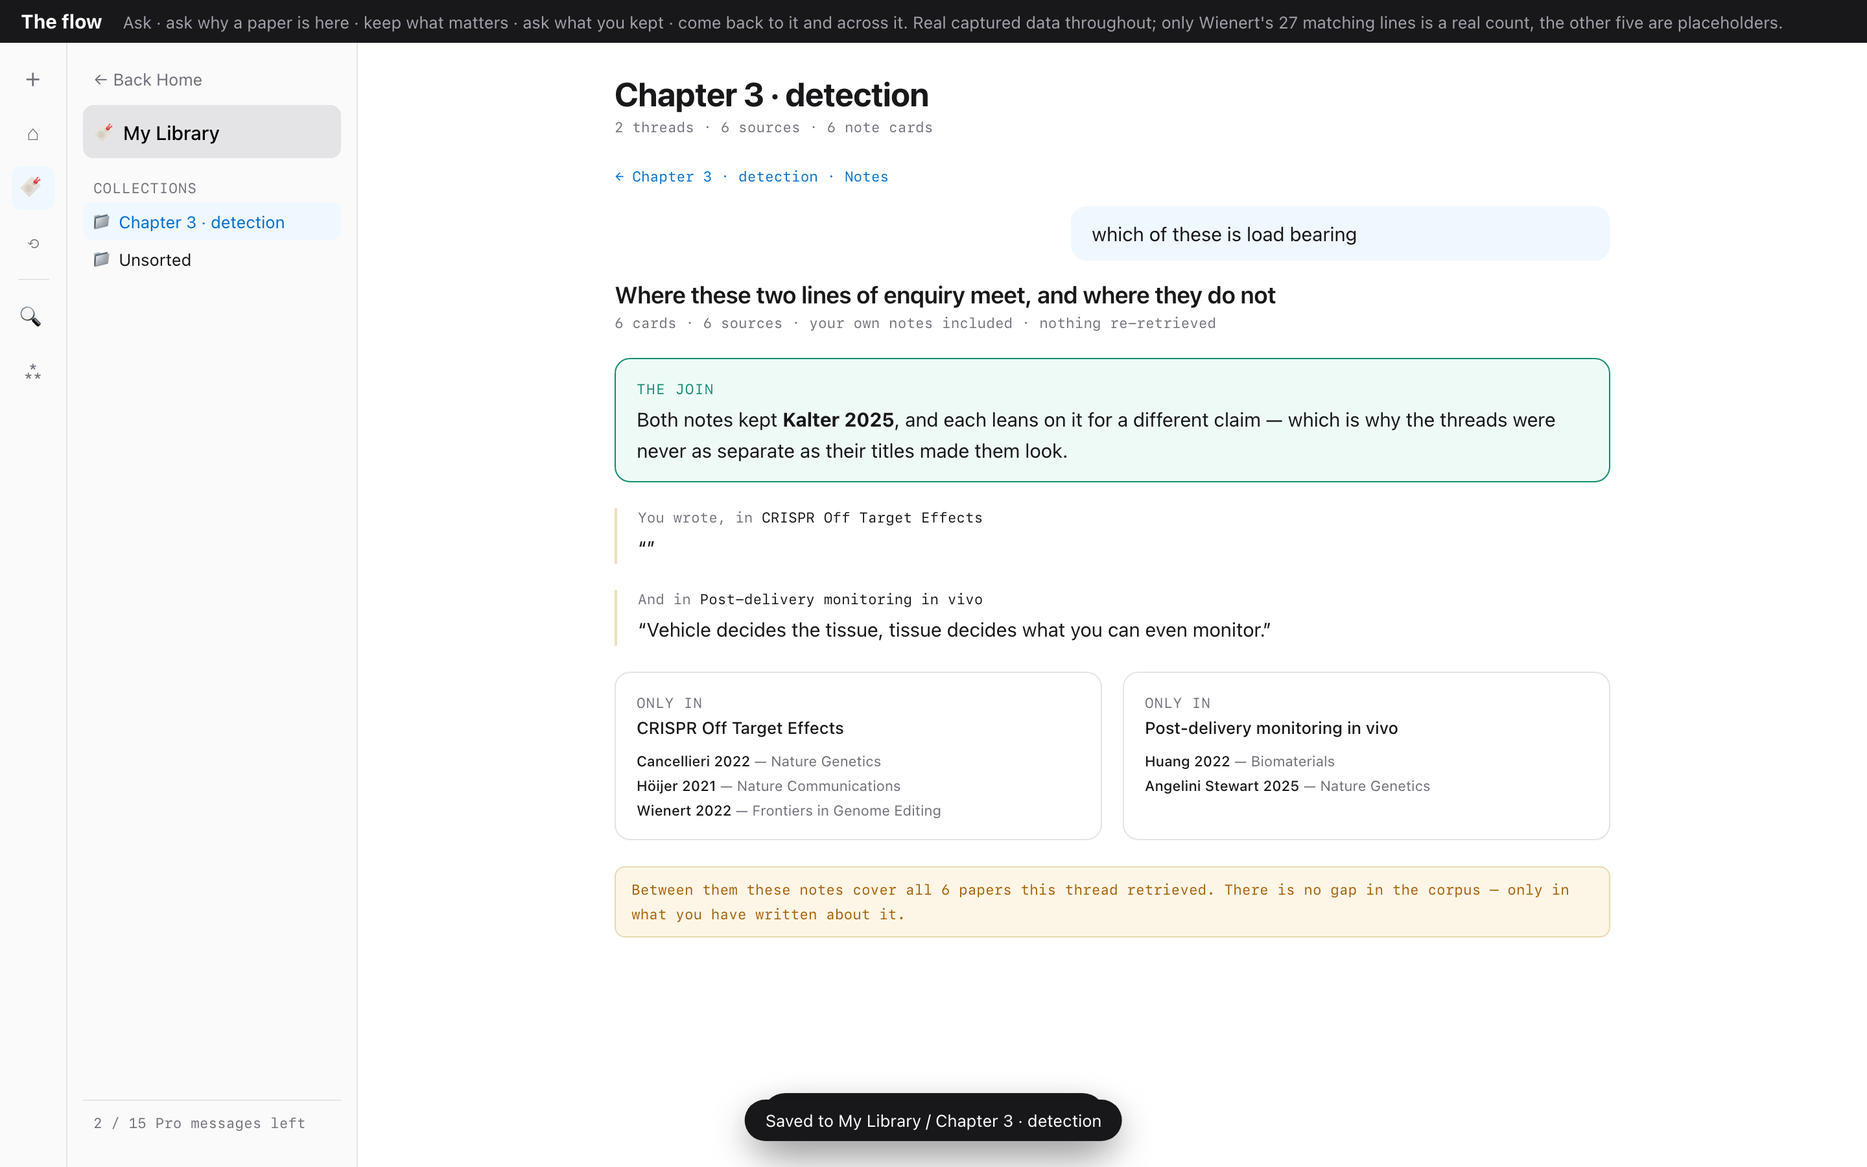
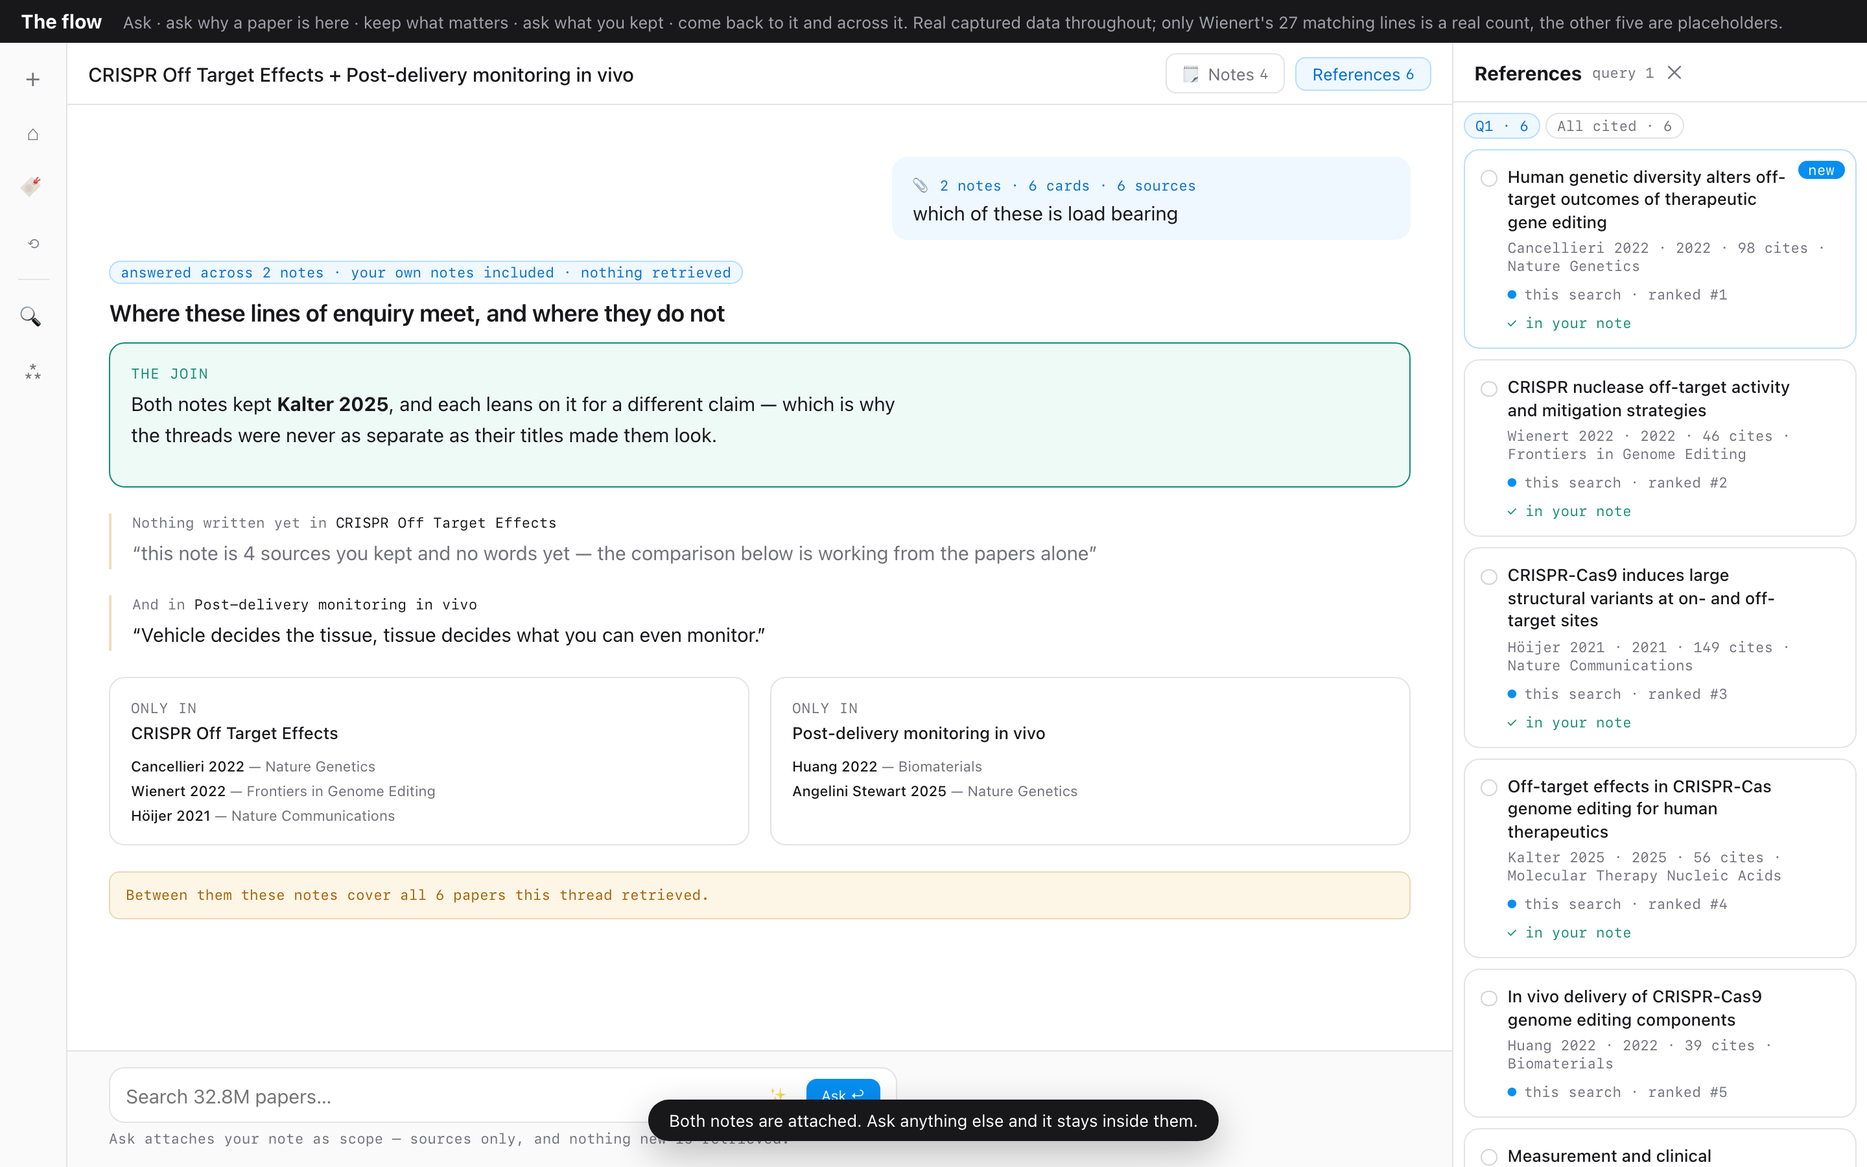
Asking two notes lands in the chat, and a drop lands where you dropped it
Five changes, four of them from watching the demo script get walked.

The last beat leaves My Library. Selecting two notes and sending now switches
to the thread, retitles it after both notes, puts the question in as a turn
with "📎 2 notes · 6 cards · 6 sources", and renders the comparison as the
answer. References becomes the union of what the two notes kept, and Notes
stays closed — the user is searching again, which is where the script was
always heading. Asking is something that happens in a thread; rendering it as
a Library page was the wrong home for it.

The hover card can now act. It explains why a paper is here and then offers the
two things you actually do about it: "💬 Ask this paper" and "🗒 Keep it".
Before, the only thing you could do from the card was complain about it.

A drag into an open panel no longer raises the popup. The popup exists for
drops you cannot see land — onto the closed Notes button, or from the
References bar. With the panel open the card is right there, so a quiet toast
is enough and the "＋ add a note" offer is redundant.

And a drop lands where you dropped it. Cards were being unshifted to the top
regardless, so dragging to the bottom of the list moved the item away from
where you aimed. Position now decides: an insertion line shows where it will
go, the middle band of a card still stacks into it, and only a drop with no
position — the closed button, the References bar — goes to the top.
[…]

diff --git a/prototypes/flow.html b/prototypes/flow.html
@@ -236,7 +236,16 @@ body.dragging #notesPane{background:#fffdf5;box-shadow:inset 0 0 0 2px var(--acc
 .why .k{font-family:var(--mono);font-size:var(--t-2xs);color:var(--accent-emph);letter-spacing:.06em;display:block}
 .why q{display:block;font-size:var(--t-xs);line-height:1.6;margin-top:var(--s-2xs);font-style:normal}
 .why .tagline{font-family:var(--mono);font-size:var(--t-2xs);color:var(--muted);display:block;margin-top:var(--s-2xs)}
-.miss{margin-top:var(--s-sm);border-top:1px dashed var(--bd);padding-top:var(--s-xs)}
+/* the two things you actually do to a paper you have just been shown */
+.rowacts{display:flex;gap:var(--s-2xs);margin-top:var(--s-sm)}
+.mini{font-family:inherit;font-size:var(--t-2xs);border:1px solid var(--bd);background:#fff;color:var(--fg);
+  border-radius:var(--r-sm);padding:5px var(--s-xs);cursor:pointer;flex:1}
+.mini:hover{border-color:var(--accent-bd);color:var(--accent-emph);background:var(--accent-subtle)}
+.card.merge{border-color:var(--accent);box-shadow:0 0 0 3px var(--accent-muted)}
+.dropline{height:0;border-top:2px solid var(--accent);border-radius:2px;margin:calc(var(--s-sm) * -1 + 1px) 0 var(--s-sm);position:relative}
+.dropline::after{content:'here';position:absolute;right:0;top:-.55rem;background:var(--accent);color:#fff;
+  font-family:var(--mono);font-size:var(--t-2xs);border-radius:625rem;padding:0 var(--s-xs)}
+.miss{margin-top:var(--s-xs);border-top:1px dashed var(--bd);padding-top:var(--s-xs)}
 .miss .open{font-family:var(--mono);font-size:var(--t-2xs);color:var(--muted);background:none;border:0;cursor:pointer;padding:0;text-decoration:underline}
 .miss .open:hover{color:var(--accent-emph)}
 .goals{display:none;flex-direction:column;gap:var(--s-2xs);margin-top:var(--s-xs)}
@@ -514,16 +523,16 @@ const GOALS=[
  {l:"Something else…",q:null}];
 const TAGS=["ch.3","gap?","methods","to ask","read next"];
 /* two collections, one layer deep — a picker you can finish in one click */
-const LIB={name:"My Library",kids:[
- {name:"Chapter 3 · detection",kids:[]},
- {name:"Unsorted",kids:[]}]};
+/* one collection, already holding one note, so filing is a single click and
+   there is immediately something to compare against */
+const LIB={name:"My Library",kids:[{name:"CRISPR off-target effects",kids:[]}]};
 /* one note already exists, from an earlier thread, so there is something to
    compare against and something to switch to */
 let NOTES=[
  {id:'n1',thread:'CRISPR Off Target Effects',cards:[],coll:''},
- {id:'n2',thread:'Post-delivery monitoring in vivo',coll:'Chapter 3 · detection',
-  cards:[{id:101,text:"Vehicle decides the tissue, tissue decides what you can even monitor.",srcs:[5,4],tags:["methods"],coll:'Chapter 3 · detection'},
-         {id:102,text:"The clinical framework assumes the measurement is settled. It is not.",srcs:[4,3],tags:["gap?","to ask"],coll:'Chapter 3 · detection'}]}];
+ {id:'n2',thread:'Post-delivery monitoring in vivo',coll:'CRISPR off-target effects',
+  cards:[{id:101,text:"Vehicle decides the tissue, tissue decides what you can even monitor.",srcs:[5,4],tags:["methods"],coll:'CRISPR off-target effects'},
+         {id:102,text:"The clinical framework assumes the measurement is settled. It is not.",srcs:[4,3],tags:["gap?","to ask"],coll:'CRISPR off-target effects'}]}];
 let activeNote='n1';
 
 const $=id=>document.getElementById(id);
@@ -532,6 +541,7 @@ function toast(m){const t=$('toast');t.textContent=m;t.classList.add('on');
   clearTimeout(t._h);t._h=setTimeout(()=>t.classList.remove('on'),2800)}
 
 let dragCard=null;
+const dropline=document.createElement('div'); dropline.className='dropline';
 /* the demo starts on an empty thread so the search itself can be shown */
 const SCRIPT=[
  "What are the open questions in CRISPR off-target effects for in vivo therapies?",
@@ -541,7 +551,7 @@ let scriptAt=0;
 let QUERIES=[], CARDS=[], seq=1, activeQ=0, freshSet=new Set(),
     selRef=new Set(), anchor=null, drag=null, staged=[], savedTo=null,
     showNotes=false, showRefs=true, screen='thread',
-    coll=null, tab='notes', selNotes=new Set(), openNote=null, compare=null, askedQ='';
+    coll=null, tab='notes', selNotes=new Set(), openNote=null, askedQ='';
 
 /* ══ recurrence is counted from the searches you actually ran ══════════ */
 const recurrence=i=>QUERIES.filter(q=>q.refs.some(r=>r.p===i)).length;
@@ -731,8 +741,12 @@ function showWhy(i,el,side){
     /* the explanation is the paper's own words, so it cannot be wrong about itself */
     '<div class="why"><span class="k">WHY THIS PAPER</span><q>'+esc(p.passage)+'</q>'+
     '<span class="tagline">the closest of '+p.q+' matching lines · found by “'+esc(SUBQ[p.sub].s)+'”</span></div>'+
+    '<div class="rowacts"><button class="mini" id="whyAsk">💬 Ask this paper</button>'+
+    '<button class="mini" id="whyKeep">🗒 Keep it</button></div>'+
     '<div class="miss"><button class="open" id="missBtn">not what you needed?</button>'+
     '<div class="goals" id="goals"></div><div class="sug" id="sug"></div></div>';
+  $('whyAsk').addEventListener('click',()=>{hideWhy(true);attach(1,[i],P[i].n)});
+  $('whyKeep').addEventListener('click',()=>{hideWhy(true);dropSources([i],null)});
   const g=$('goals');
   g.innerHTML='<span class="lab">what were you hoping to find?</span>';
   GOALS.forEach(go=>{const b=document.createElement('button');b.className='goal';b.textContent=go.l;
@@ -818,7 +832,7 @@ function syncInNote(){const s=noteSrcs();
 $('barClr').addEventListener('click',clearRefSel);
 $('barAdd').addEventListener('click',()=>{dropSources([...selRef],null);clearRefSel()});
 $('barAsk').addEventListener('click',()=>{attach(selRef.size);clearRefSel()});
-function endDrag(){drag=null;document.body.classList.remove('dragging');
+function endDrag(){drag=null;document.body.classList.remove('dragging');dropline.remove();
   document.querySelectorAll('.ghosting').forEach(x=>x.classList.remove('ghosting'));
   $('composer').classList.remove('over');$('tail').classList.remove('over');$('tNotes').classList.remove('drop')}
 
@@ -843,7 +857,7 @@ $('cText').addEventListener('keydown',e=>{if(e.key==='Enter'&&!e.shiftKey){e.pre
 /* Dropping is a complete act. Two sources dropped are two cards, because they
    are two things — a note about them is optional and offered afterwards, not
    demanded before. Dropping ONTO a card stacks into that card instead. */
-function dropSources(idxs,targetId){
+function dropSources(idxs,targetId,atIndex){
   const made=[];
   if(targetId!=null){
     const c=CARDS.find(x=>x.id===targetId);
@@ -851,15 +865,22 @@ function dropSources(idxs,targetId){
     c.srcs.push(...added); render();
     const el=$('noteList').querySelector('[data-id="'+targetId+'"]');
     if(el){el.classList.add('flash');setTimeout(()=>el.classList.remove('flash'),1000)}
-    dropPop(added.length?added.length+(added.length===1?' source':' sources')+' stacked onto this card'
-                        :'already on this card',[targetId]);
+    const m=added.length?added.length+(added.length===1?' source':' sources')+' stacked onto this card'
+                        :'already on this card';
+    if(showNotes) toast(m); else dropPop(m,[targetId]);
     return;
   }
-  idxs.forEach(i=>{const c={id:seq++,text:'',srcs:[i],tags:[],coll:savedTo||''};CARDS.unshift(c);made.push(c.id)});
+  /* a drop lands where you dropped it; only a drop with no position — onto the
+     closed Notes button, or from the References bar — goes to the top */
+  const at=(atIndex==null?0:atIndex);
+  idxs.forEach((i,k)=>{const c={id:seq++,text:'',srcs:[i],tags:[],coll:savedTo||''};
+    CARDS.splice(at+k,0,c); made.push(c.id)});
   render();
   made.forEach(id=>{const el=$('noteList').querySelector('[data-id="'+id+'"]');
     if(el){el.classList.add('land');setTimeout(()=>el.classList.remove('land'),420)}});
-  dropPop(made.length+(made.length===1?' card added':' cards added — one per source'),made);
+  /* the confirmation exists only for drops you cannot see land */
+  const msg=made.length+(made.length===1?' card added':' cards added — one per source');
+  if(showNotes) toast(msg); else dropPop(msg,made);
 }
 /* the popup is the whole confirmation: it does not steal focus and it does not
    open the panel, because a drag is not a request to start writing */
@@ -883,8 +904,15 @@ function dropPop(msg,ids){
 function cardUnder(y){
   const els=[...$('noteList').querySelectorAll('.card')];
   for(const el of els){const r=el.getBoundingClientRect();
-    if(y>=r.top&&y<=r.bottom) return +el.dataset.id}
+    /* middle band stacks; the top and bottom thirds insert beside */
+    if(y>=r.top+r.height*0.28&&y<=r.bottom-r.height*0.28) return +el.dataset.id}
   return null;
+}
+function indexAt(y){
+  const els=[...$('noteList').querySelectorAll('.card')];
+  for(let k=0;k<els.length;k++){const r=els[k].getBoundingClientRect();
+    if(y<r.top+r.height/2) return k}
+  return els.length;
 }
 /* the composer still stages, because typing first is a different intention */
 $('composer').addEventListener('dragover',e=>{if(drag){e.preventDefault();e.stopPropagation();$('composer').classList.add('over')}});
@@ -894,13 +922,18 @@ $('composer').addEventListener('drop',e=>{if(!drag)return;e.preventDefault();e.s
 $('notesBody').addEventListener('dragover',e=>{if(!drag)return;e.preventDefault();
   const id=cardUnder(e.clientY);
   $('noteList').querySelectorAll('.card').forEach(el=>el.classList.toggle('merge',+el.dataset.id===id));
-  $('tail').classList.toggle('over',id==null)});
+  $('tail').classList.toggle('over',id==null&&!CARDS.length);
+  dropline.remove();
+  if(id==null&&CARDS.length){const els=[...$('noteList').querySelectorAll('.card')], at=indexAt(e.clientY);
+    at>=els.length?$('noteList').appendChild(dropline):$('noteList').insertBefore(dropline,els[at])}});
 $('notesBody').addEventListener('dragleave',e=>{if(!$('notesBody').contains(e.relatedTarget)){
-  $('tail').classList.remove('over');$('noteList').querySelectorAll('.merge').forEach(e=>e.classList.remove('merge'))}});
+  $('tail').classList.remove('over'); dropline.remove();
+  $('noteList').querySelectorAll('.merge').forEach(e=>e.classList.remove('merge'))}});
 $('notesBody').addEventListener('drop',e=>{if(!drag)return;e.preventDefault();
-  const id=cardUnder(e.clientY);
-  $('tail').classList.remove('over');$('noteList').querySelectorAll('.merge').forEach(e=>e.classList.remove('merge'));
-  dropSources(drag.slice(),id); clearRefSel()});
+  const id=cardUnder(e.clientY), at=indexAt(e.clientY);
+  $('tail').classList.remove('over'); dropline.remove();
+  $('noteList').querySelectorAll('.merge').forEach(e=>e.classList.remove('merge'));
+  dropSources(drag.slice(),id,id==null?at:null); clearRefSel()});
 
 function render(){
   const host=$('noteList'); host.innerHTML='';
@@ -1083,7 +1116,7 @@ function renderLib(){
   walk(LIB,0,[]).forEach(k=>{const b=document.createElement('button');
     b.className='coll'+(k.depth?' sub':'')+(coll===k.name?' on':'');
     b.textContent=(k.depth?'↳ ':'📁 ')+k.name;
-    b.addEventListener('click',()=>{coll=k.name;selNotes.clear();openNote=null;compare=null;renderLib()});
+    b.addEventListener('click',()=>{coll=k.name;selNotes.clear();openNote=null;renderLib()});
     tree.appendChild(b)});
   const body=$('libBody'), tw=$('tabsWrap'); body.innerHTML=''; tw.innerHTML='';
   if(!coll){$('libTitle').textContent='My Library';
@@ -1096,7 +1129,6 @@ function renderLib(){
   $('tallies').textContent=notes.length+(notes.length===1?' thread · ':' threads · ')+
     srcs.length+(srcs.length===1?' source · ':' sources · ')+cards+(cards===1?' note card':' note cards');
   if(openNote){drawNoteView(body,notes);syncNoteBar();return}
-  if(compare){drawCompare(body,notes);syncNoteBar();return}
   const bar=document.createElement('div'); bar.className='tabs';
   [['threads','Threads',notes.length],['sources','Sources',srcs.length],['notes','Notes',cards]]
    .forEach(([k,l,n])=>{const b=document.createElement('button');b.className='tab'+(tab===k?' on':'');
@@ -1165,35 +1197,76 @@ function drawNoteView(body,notes){
     a.appendChild(ft); wrap.appendChild(a)});
   body.appendChild(wrap);
 }
-function drawCompare(body,notes){
-  const picked=notes.filter(n=>compare.includes(n.key));
-  const wrap=document.createElement('div'); wrap.className='cmp';
-  const b=document.createElement('button'); b.className='back'; b.textContent='← '+coll+' · Notes';
-  b.addEventListener('click',()=>{compare=null;askedQ='';renderLib()});
-  wrap.appendChild(b);
-  if(askedQ){const q=document.createElement('div');q.className='askedq';q.textContent=askedQ;wrap.appendChild(q)}
+function syncNoteBar(){
+  const notes=coll?notesInColl():[];
+  const picked=notes.filter(n=>selNotes.has(n.key));
+  const cards=picked.reduce((a,n)=>a+n.cards.length,0);
+  const srcs=[...new Set(picked.flatMap(srcsOfNote))];
+  $('noteCount').textContent='📎 '+picked.length+(picked.length===1?' note · ':' notes · ')+
+    cards+' cards · '+srcs.length+(srcs.length===1?' source':' sources');
+  $('nAsk').placeholder=picked.length>1?'Ask across these '+picked.length+' notes…':'Ask this note…';
+  $('notebar').classList.toggle('on',screen==='lib'&&picked.length>0&&!openNote);
+}
+$('nClr').addEventListener('click',()=>{selNotes.clear();renderLib()});
+/* sending from My Library leaves My Library. Two notes become an attachment and
+   the answer arrives in the thread, which is where asking happens. */
+function askNotes(){
+  const keys=[...selNotes]; if(!keys.length)return;
+  const q=$('nAsk').value.trim()||'Where do these lines of enquiry actually disagree?';
+  $('nAsk').value=''; askedQ=q;
+  const notes=notesInColl().filter(n=>keys.includes(n.key));
+  const srcs=[...new Set(notes.flatMap(srcsOfNote))];
+  const cards=notes.reduce((a,n)=>a+n.cards.length,0);
+  selNotes.clear();
+  showScreen('thread');
+  showNotes=false; layout();
+  $('threadName').textContent=notes.map(n=>n.name).join(' + ');
+  QUERIES=[]; renderThread(); renderRefs();
+  const t=document.createElement('div'); t.className='turn';
+  const qd=document.createElement('div'); qd.className='q';
+  const att=document.createElement('span'); att.className='att';
+  att.textContent='📎 '+notes.length+' notes · '+cards+' cards · '+srcs.length+' sources';
+  qd.appendChild(att); qd.appendChild(document.createTextNode(q));
+  t.appendChild(qd);
+  const m=document.createElement('div'); m.className='scoped-mark';
+  m.textContent='answered across '+notes.length+' notes · your own notes included · nothing retrieved';
+  t.appendChild(m);
+  t.appendChild(compareBlock(notes));
+  $('thread').innerHTML=''; $('thread').appendChild(t);
+  /* the references panel becomes the union of what the two notes kept */
+  QUERIES=[{q:q,title:'',refs:srcs.map((p,k)=>({p,rank:k+1})),paras:[],
+    funnel:'from your notes · nothing retrieved'}];
+  activeQ=0; showRefs=true; layout(); renderRefs();
+  toast('Both notes are attached. Ask anything else and it stays inside them.');
+}
+/* one generator, so the comparison reads the same wherever it lands */
+function compareBlock(picked){
+  const wrap=document.createElement('div'); wrap.className='cmp ans';
   const per=picked.map(n=>({n,s:srcsOfNote(n)}));
   const all=[...new Set(per.flatMap(x=>x.s))];
   const shared=all.filter(i=>per.every(x=>x.s.includes(i)));
-  const cards=per.reduce((a,x)=>a+x.n.cards.length,0);
-  const h=document.createElement('h2');
-  h.textContent=shared.length?'Where these two lines of enquiry meet, and where they do not'
-                             :'These two notes share no sources at all';
+  const h=document.createElement('div'); h.className='aTitle';
+  h.textContent=shared.length?'Where these lines of enquiry meet, and where they do not'
+                             :'These notes share no sources at all';
   wrap.appendChild(h);
-  const f=document.createElement('div'); f.className='fun';
-  f.textContent=cards+' cards · '+all.length+' sources · your own notes included · nothing re-retrieved';
-  wrap.appendChild(f);
   if(shared.length){
     const j=document.createElement('div'); j.className='join';
     j.innerHTML='<span class="k">THE JOIN</span><p></p>';
     j.querySelector('p').innerHTML='Both notes kept <b>'+shared.map(i=>P[i].n).join('</b> and <b>')+
       '</b>, and each leans on it for a different claim — which is why the threads were never as separate as their titles made them look.';
     wrap.appendChild(j)}
-  per.forEach((x,k)=>{const c=x.n.cards.find(c=>c.text)||x.n.cards[0];
+  per.forEach((x,k)=>{
+    const c=x.n.cards.find(c=>c.text&&c.text.trim());
     const d=document.createElement('div'); d.className='blk';
-    d.innerHTML='<div class="hd">'+(k?'And in':'You wrote, in')+' <b></b></div><q></q>';
-    d.querySelector('b').textContent=x.n.name;
-    d.querySelector('q').textContent=c?c.text:'(sources only)';
+    d.innerHTML='<div class="hd"></div><q></q>';
+    /* an empty quote would be a lie about what the note contains */
+    d.querySelector('.hd').innerHTML=(c?(k?'And in ':'You wrote, in '):'Nothing written yet in ')+
+      '<b>'+esc(x.n.name)+'</b>';
+    const q=d.querySelector('q');
+    if(c) q.textContent=c.text;
+    else{q.textContent='this note is '+x.s.length+' sources you kept and no words yet — '+
+      'the comparison below is working from the papers alone';
+      q.style.color='var(--muted)'}
     wrap.appendChild(d)});
   const g=document.createElement('div'); g.className='grid2';
   per.forEach(x=>{const only=x.s.filter(i=>!per.some(y=>y.n.key!==x.n.key&&y.s.includes(i)));
@@ -1206,34 +1279,13 @@ function drawCompare(body,notes){
     if(!only.length)ul.innerHTML='<li>nothing exclusive to this note</li>';
     g.appendChild(c)});
   wrap.appendChild(g);
-  /* absence is worth stating either way — a gap you have, or the absence of one */
   const missed=P.map((_,i)=>i).filter(i=>!all.includes(i));
   const m=document.createElement('div'); m.className='gapline';
   m.textContent=missed.length
-    ? 'In the corpus but in neither note: '+missed.map(i=>P[i].n).join(', ')+
-      '. If that work matters to the question, both arguments are incomplete.'
-    : 'Between them these notes cover all '+P.length+' papers this thread retrieved. '+
-      'There is no gap in the corpus — only in what you have written about it.';
+    ? 'In the corpus but in neither note: '+missed.map(i=>P[i].n).join(', ')+'.'
+    : 'Between them these notes cover all '+P.length+' papers this thread retrieved.';
   wrap.appendChild(m);
-  body.appendChild(wrap);
-}
-function syncNoteBar(){
-  const notes=coll?notesInColl():[];
-  const picked=notes.filter(n=>selNotes.has(n.key));
-  const cards=picked.reduce((a,n)=>a+n.cards.length,0);
-  const srcs=[...new Set(picked.flatMap(srcsOfNote))];
-  $('noteCount').textContent='📎 '+picked.length+(picked.length===1?' note · ':' notes · ')+
-    cards+' cards · '+srcs.length+(srcs.length===1?' source':' sources');
-  $('nAsk').placeholder=picked.length>1?'Ask across these '+picked.length+' notes…':'Ask this note…';
-  $('notebar').classList.toggle('on',screen==='lib'&&picked.length>0&&!openNote&&!compare);
-}
-$('nClr').addEventListener('click',()=>{selNotes.clear();renderLib()});
-function askNotes(){
-  const keys=[...selNotes]; if(!keys.length)return;
-  askedQ=$('nAsk').value.trim()||'Where do these lines of enquiry actually disagree?';
-  $('nAsk').value='';
-  if(keys.length<2){toast('📎 attached — sources only, your notes stay private');return}
-  compare=keys; renderLib();
+  return wrap;
 }
 $('nGo').addEventListener('click',askNotes);
 $('nAsk').addEventListener('keydown',e=>{if(e.key==='Enter'){e.preventDefault();askNotes()}});
